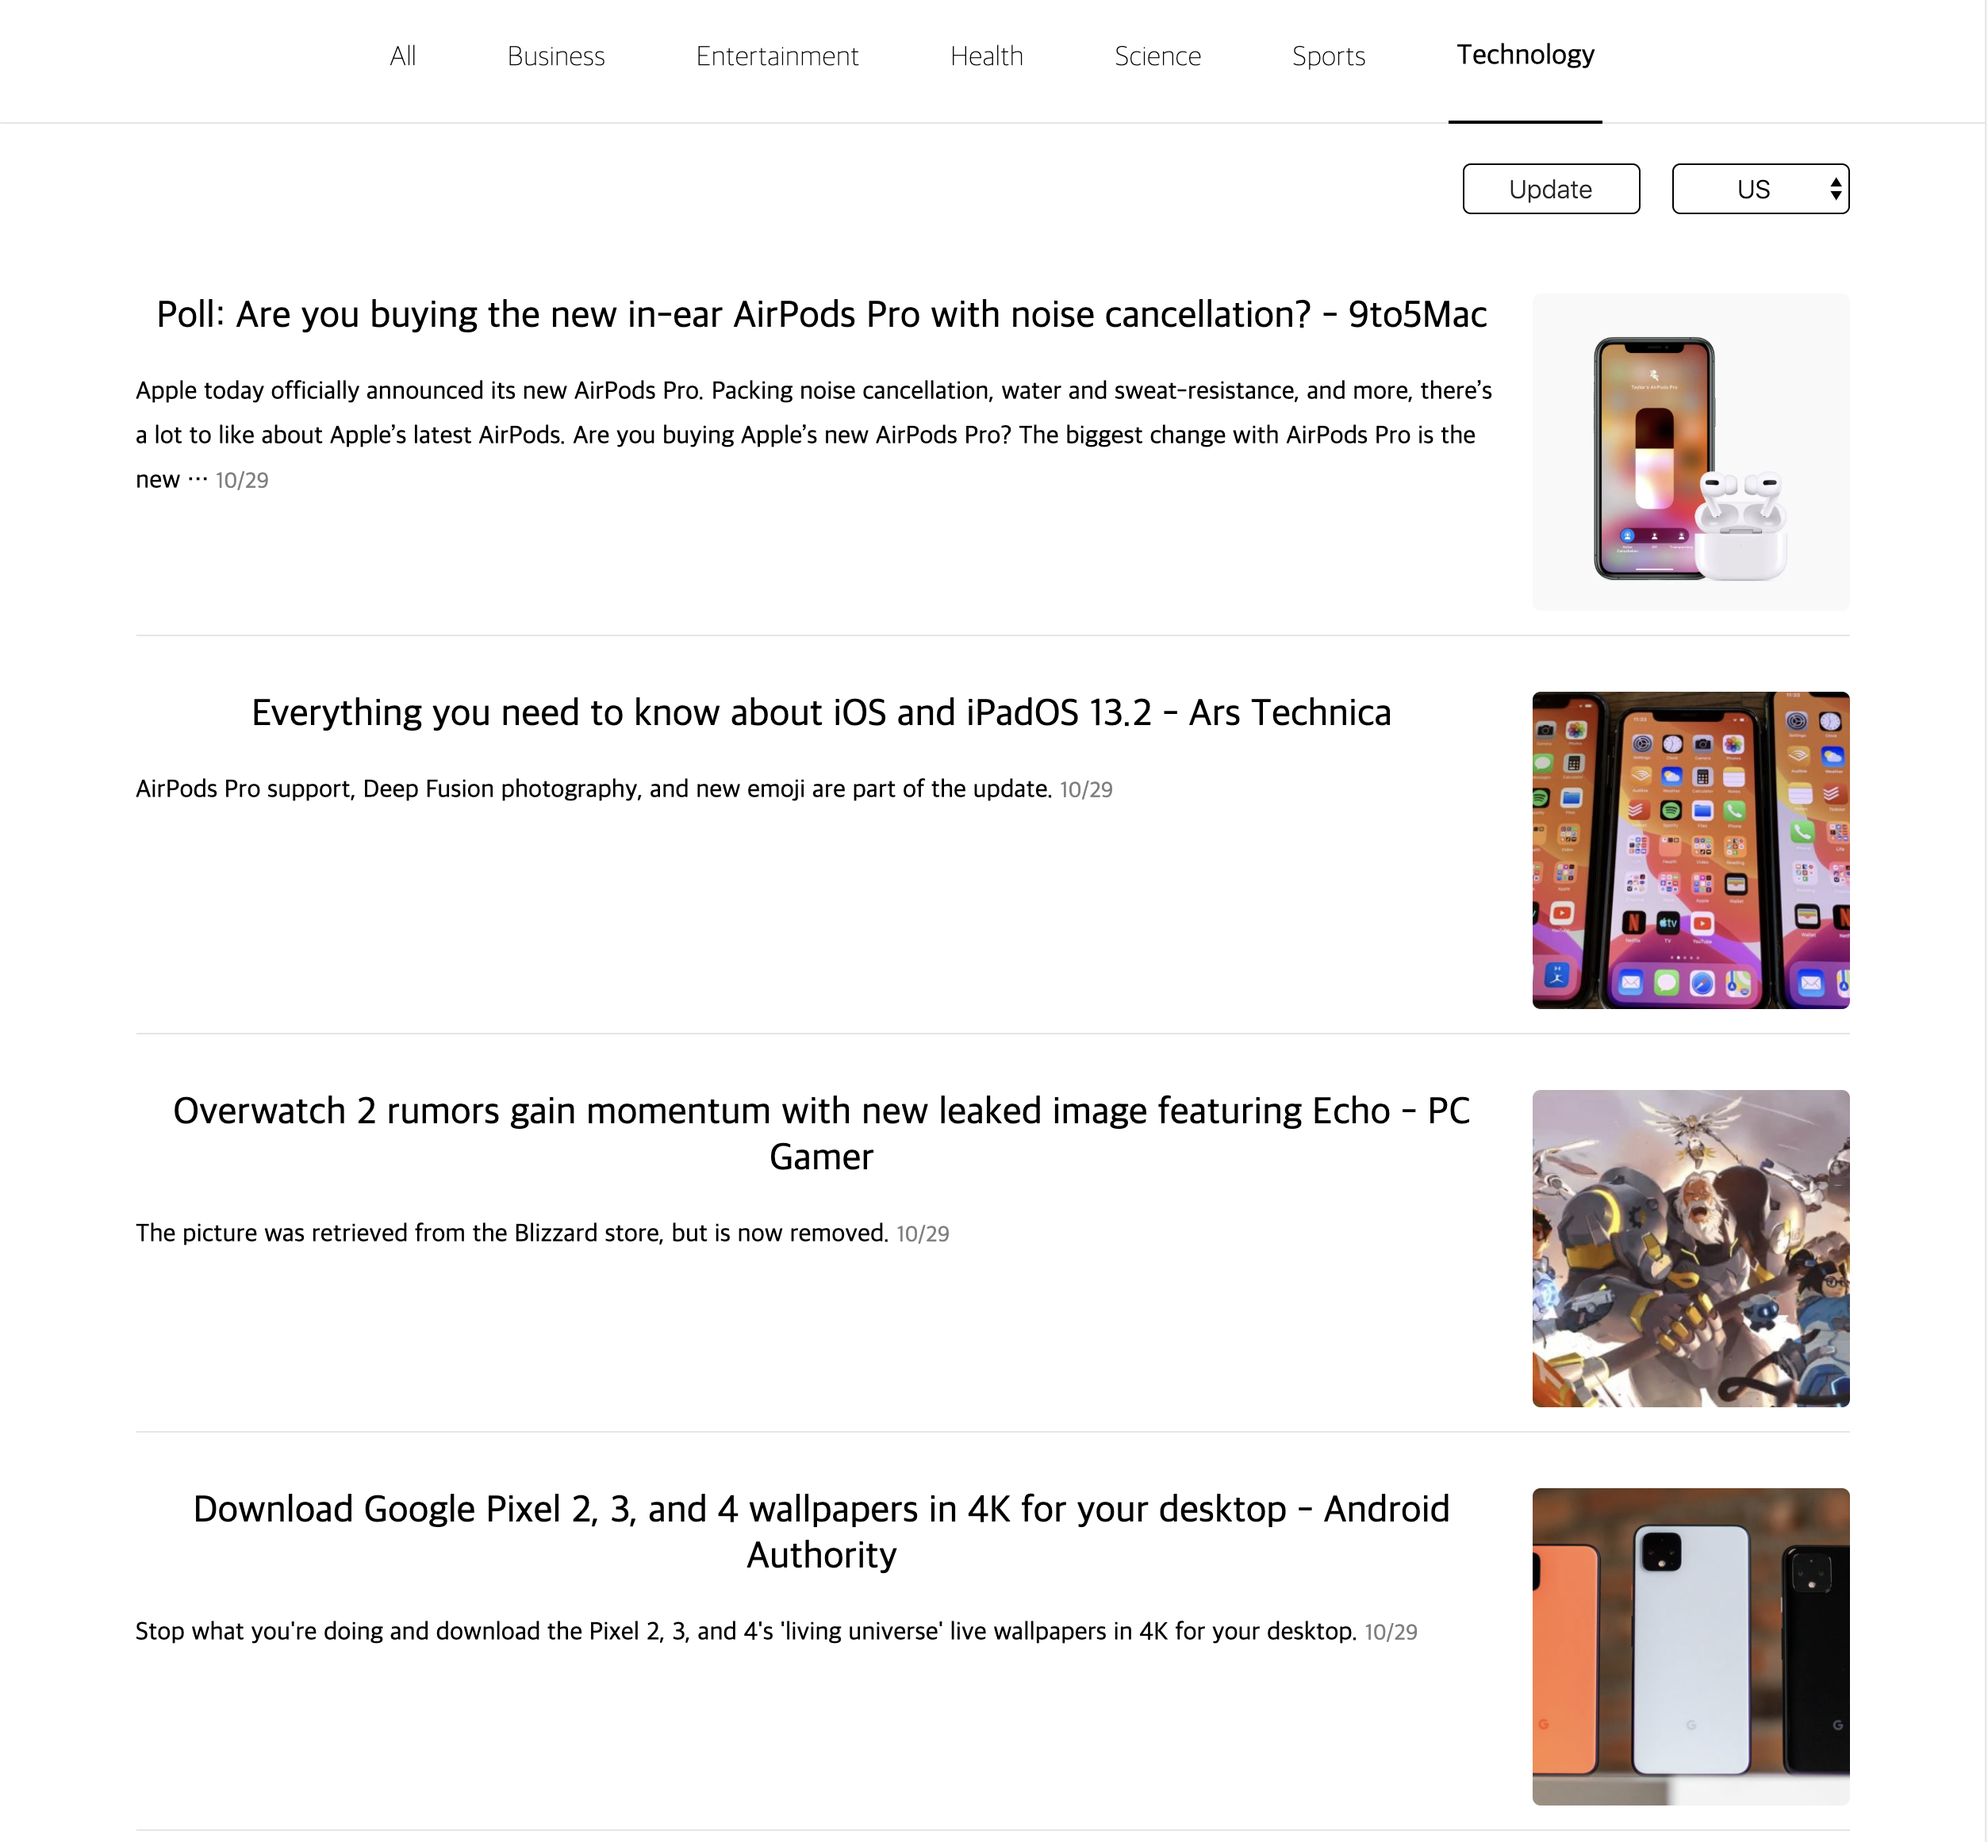
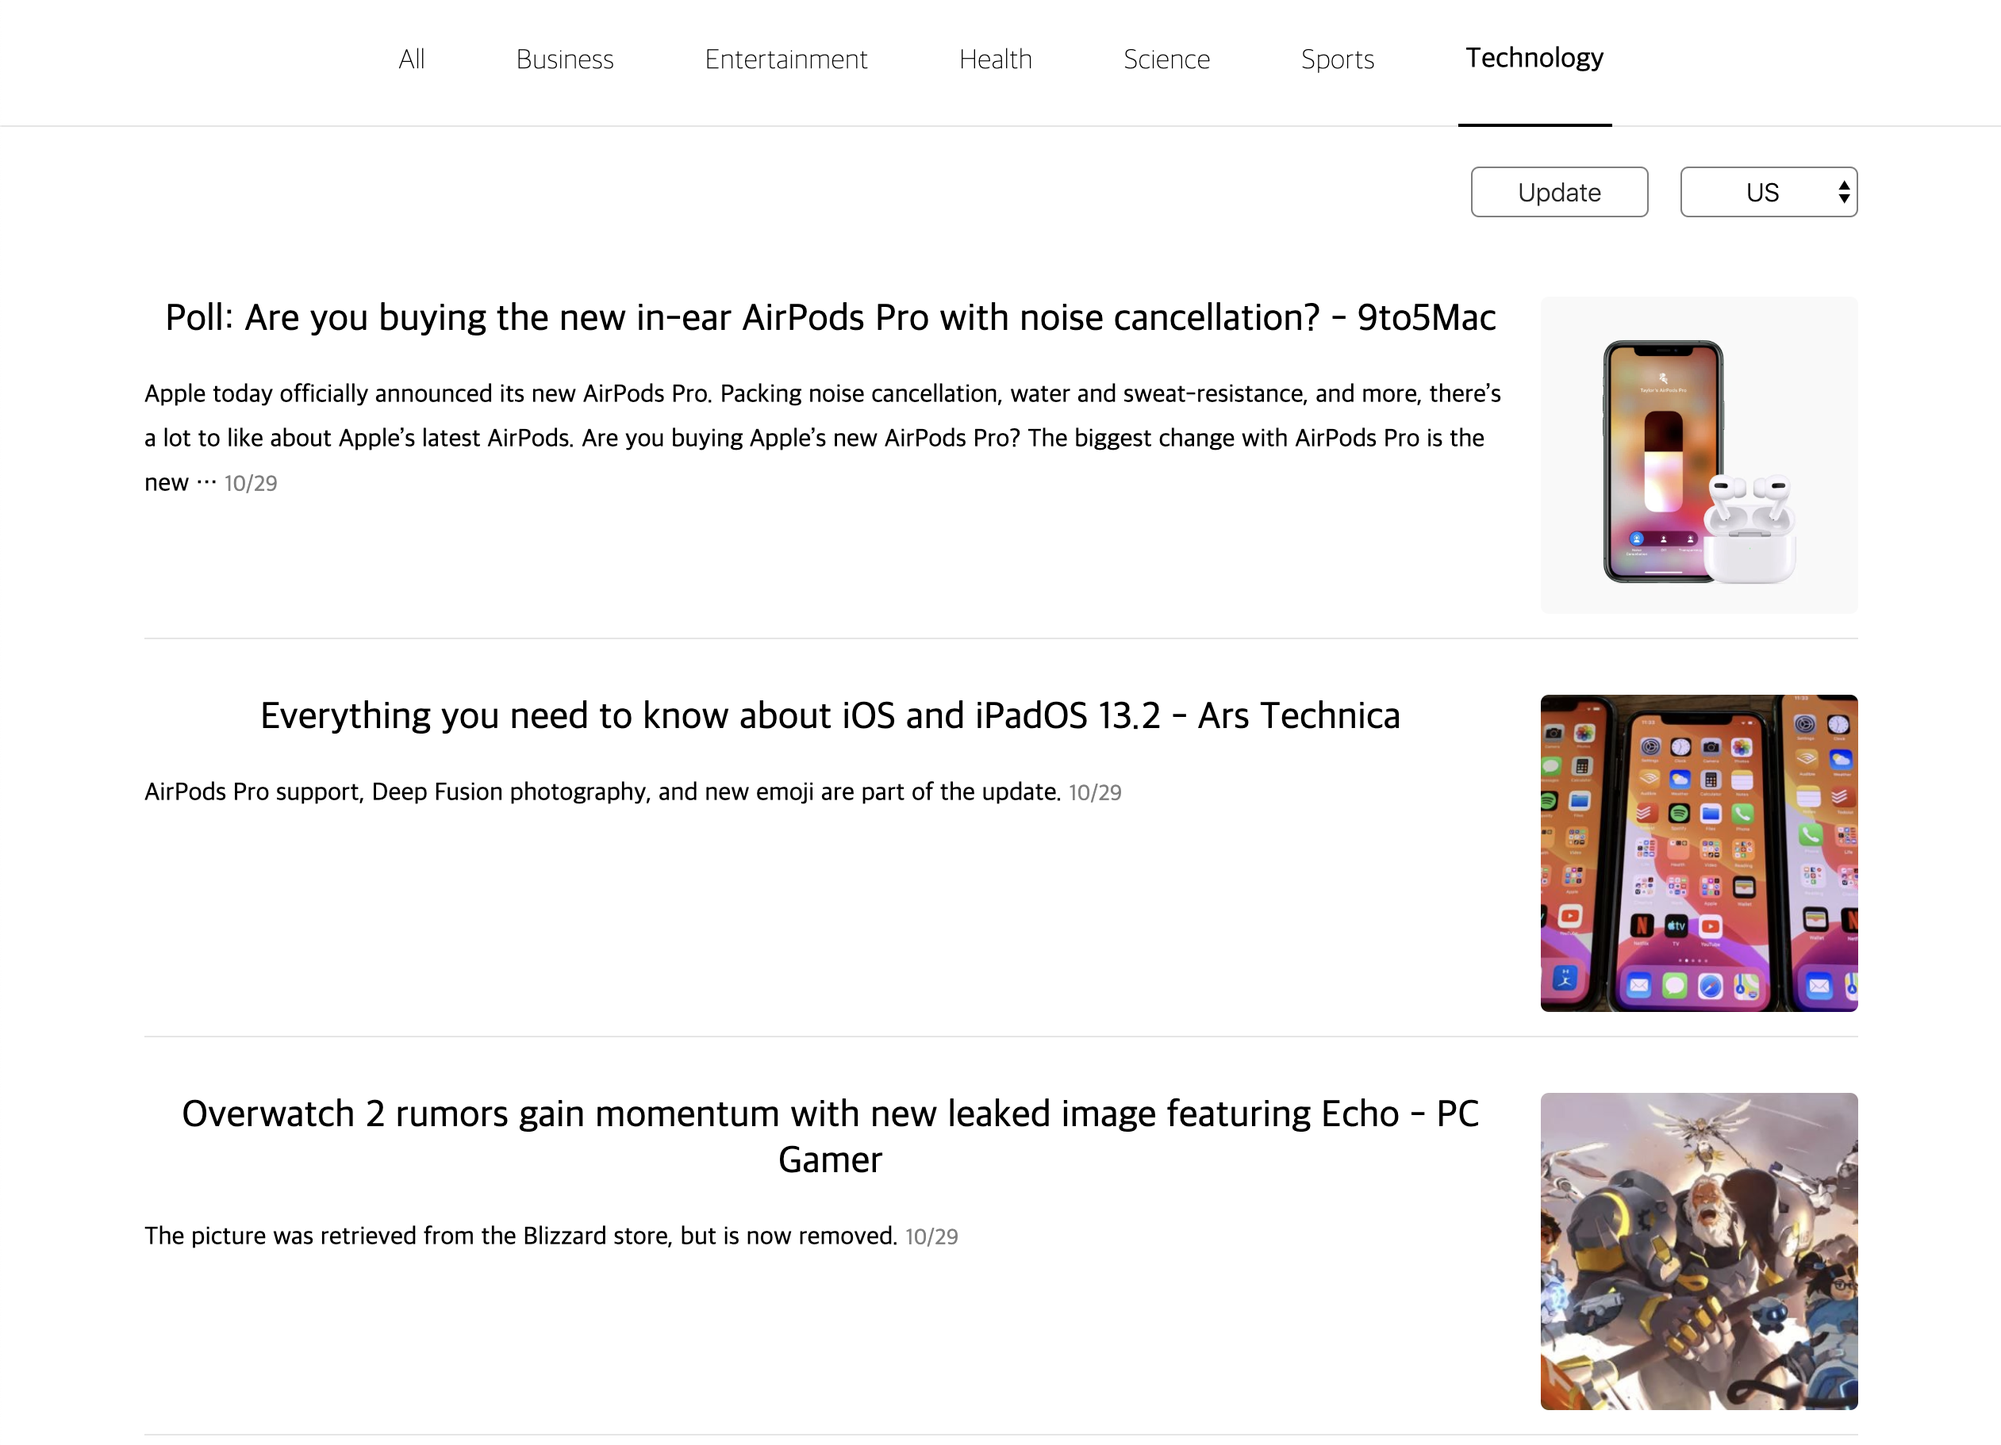
chore(readme): add screenshot

diff --git a/src/components/news/NewsMenu.js b/src/components/news/NewsMenu.js
@@ -18,7 +18,7 @@ const MenuContainer = styled.div`
         width: 110px;
         height: 30px;
         background-color: white;
-        border: 1px solid black;
+        border: 1px solid rgba(0, 0, 0, 0.5);
     }
 `;
 
@@ -30,7 +30,7 @@ const UpdateButton = styled.div`
         transition: all 0.3s ease-out;
 
         &:hover {
-            background-color: lightgray;
+            background-color: rgba(0, 0, 0, 0.1);
             border: 1px solid gray;
         }
     }
